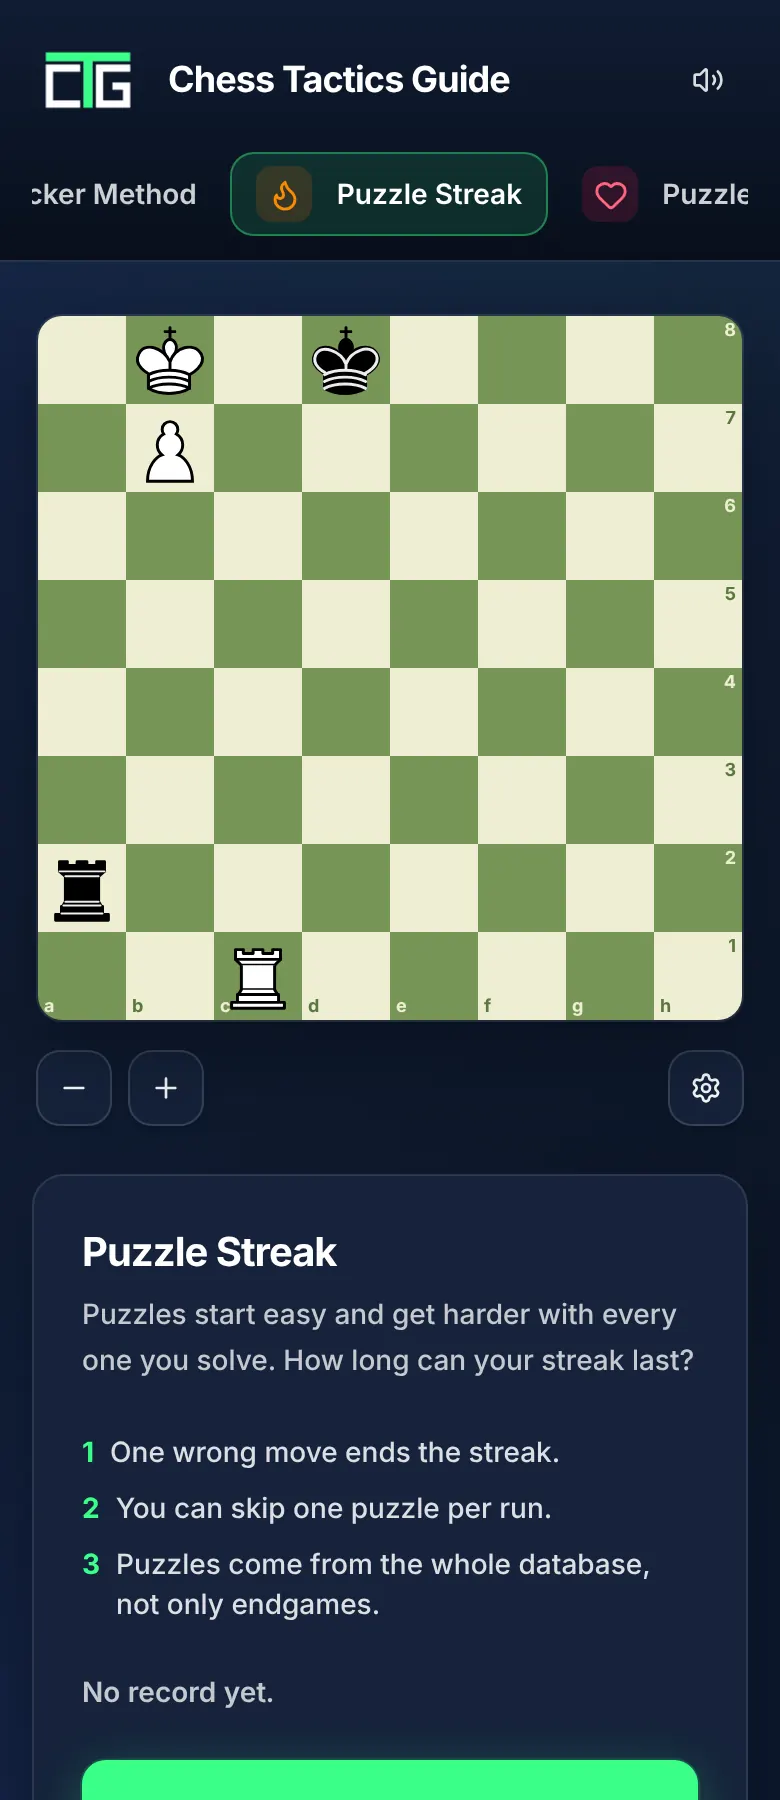
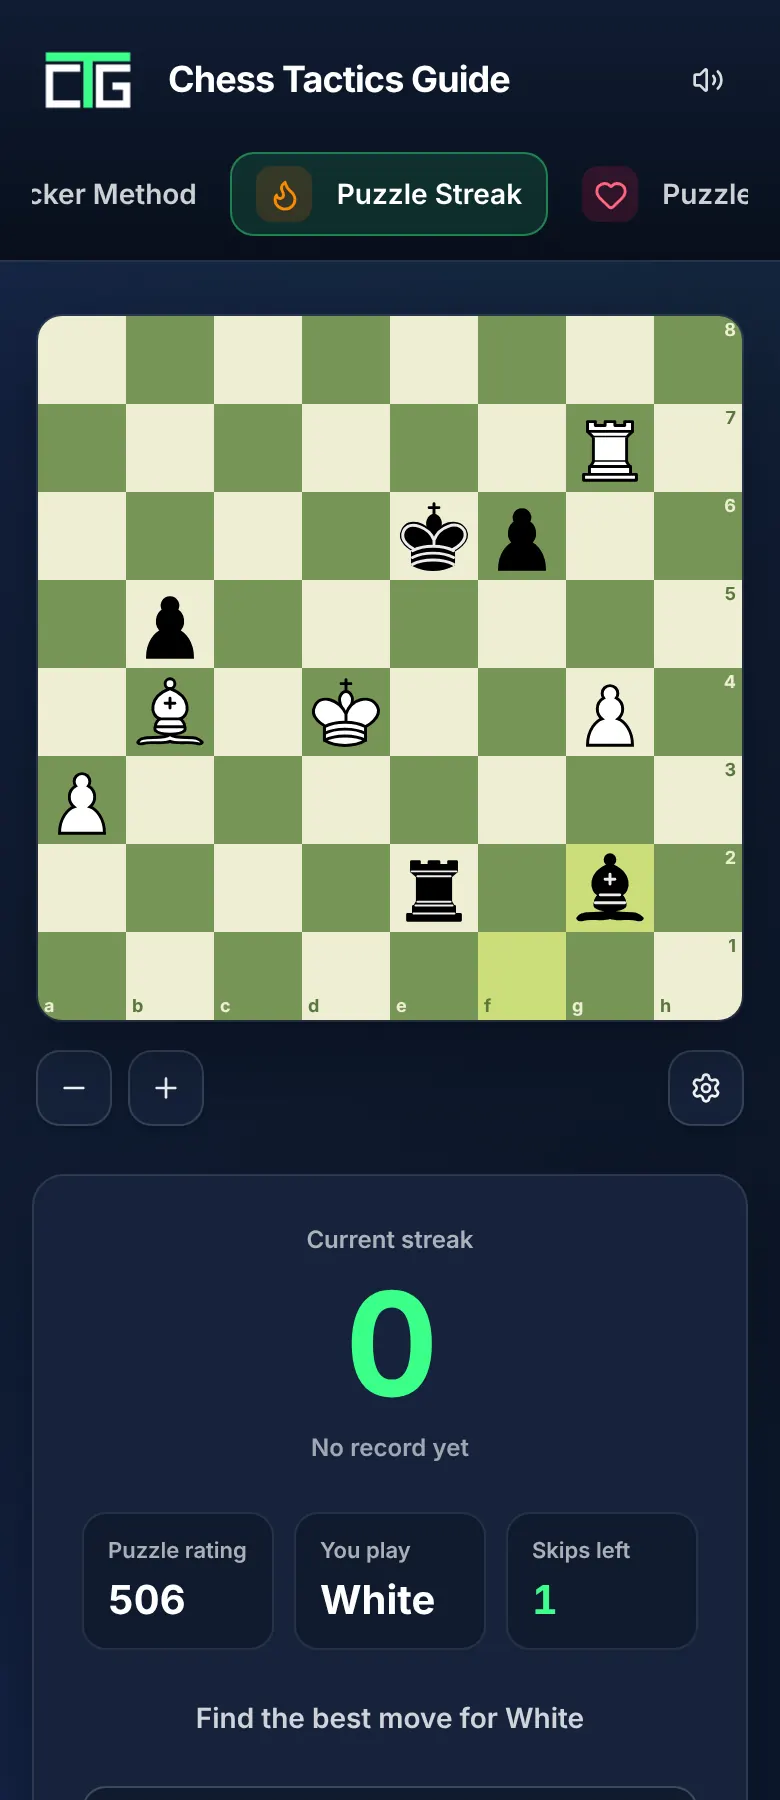
Home: different phone screens, texts on Woodpecker, Blindfold and the free books
Claude-Session: https://claude.ai/code/session_01YC5JRCiqqynmWYQfTxD754

diff --git a/src/components/WelcomeIntro.tsx b/src/components/WelcomeIntro.tsx
@@ -1,15 +1,108 @@
 // What Home shows instead of empty statistics: to a visitor who has not trained yet (a first visit, or after signing
 // out, when this browser holds no results) it says what the site is, with two phone screenshots, and shows the prices.
-import { ArrowRight, LogIn } from 'lucide-react';
+import type { ReactNode } from 'react';
+import { ArrowRight, BookOpen, Check, EyeOff, LogIn, Repeat } from 'lucide-react';
 import { LOGIN_BUTTON_CLASS, PRIMARY_BUTTON_CLASS, SECONDARY_BUTTON_CLASS } from './panelUi';
 import PricingPlans from './PricingPlans';
 
 const CARD = 'bg-[#16233b] border border-white/10 rounded-2xl shadow-[0_16px_44px_rgba(4,9,20,0.45)]';
 
 const SHOTS = {
-  streak: { src: '/welcome/phone-streak.webp', alt: 'The Puzzle Streak page on a phone: the board, the three rules and the Start button' },
-  woodpecker: { src: '/welcome/phone-woodpecker.webp', alt: 'The Woodpecker setup on a phone: the board, number of puzzles, cycles, puzzle type and difficulty' },
+  streak: { src: '/welcome/phone-streak.webp', alt: 'Puzzle Streak on a phone: a puzzle on the board and the current streak under it' },
+  woodpecker: { src: '/welcome/phone-woodpecker.webp', alt: 'The Woodpecker Method on a phone: a puzzle on the board, with the cycle, the accuracy and the timers under it' },
 };
+
+interface Guide {
+  id: string;
+  title: string;
+  icon: typeof Repeat;
+  tint: string;
+  text: ReactNode;
+  points: string[];
+  links: Array<{ href: string; label: string }>;
+}
+
+const GUIDES: Guide[] = [
+  {
+    id: 'woodpecker',
+    title: 'The Woodpecker Method',
+    icon: Repeat,
+    tint: 'bg-amber-300/15 text-amber-300',
+    text: (
+      <>
+        <p>
+          A training idea from the grandmasters Hans Tikkanen and Axel Smith (their book came out in 2018). You take one fixed set
+          of puzzles and solve the very same set again and again. Each round, called a cycle, you try to be faster than the last
+          one without making more mistakes.
+        </p>
+        <p>
+          Seeing the same positions over and over turns the patterns into habit, so in your own games you spot a fork, a pin or
+          a mating net at a glance instead of calculating it from the start.
+        </p>
+      </>
+    ),
+    points: [
+      'You choose how many puzzles and how many cycles',
+      'Puzzles of every kind, or endgames only, from easy to expert',
+      'Your time and accuracy are tracked for every cycle, then you review what you missed',
+    ],
+    links: [
+      { href: '/woodpecker', label: 'Start a Woodpecker set' },
+      { href: '/about', label: 'Read more' },
+    ],
+  },
+  {
+    id: 'blindfold',
+    title: 'Blindfold training',
+    icon: EyeOff,
+    tint: 'bg-pink-400/15 text-pink-300',
+    text: (
+      <>
+        <p>
+          Memorize the position, then the pieces vanish and you find the checkmate from memory, typing the move yourself. Seeing
+          the board in your head is the skill behind calculating long lines, and like any skill it can be trained.
+        </p>
+        <p>
+          Start with few pieces and a mate in one, then add pieces, shorten the time you may look, and go for mate in two or
+          three. A second part, Drills, trains the board in your head with quick questions against the clock.
+        </p>
+      </>
+    ),
+    points: [
+      'Mate in 1, 2 or 3, with 5 to 20 seconds to memorize the position',
+      'Drills: square colours, checks, attacks, diagonals, knight moves, distances, counting and more',
+      'Rebuild a whole position on the empty board from memory',
+    ],
+    links: [{ href: '/blindfold', label: 'Try blindfold' }],
+  },
+  {
+    id: 'books',
+    title: 'Free chess books',
+    icon: BookOpen,
+    tint: 'bg-fuchsia-300/15 text-fuchsia-300',
+    text: (
+      <>
+        <p>
+          Seven chess books as PDF files, with diagrams, plans, traps and exercises. They are free to download with Premium, with
+          nothing more to buy, and you keep the files.
+        </p>
+        <p>
+          Read about an idea in a book, then train it here: the endgame book goes with Woodpecker and Endgame Theory, the tactics
+          workbook with Puzzle Streak.
+        </p>
+      </>
+    ),
+    points: [
+      'The Queen’s Gambit: A Practical Guide and a Caro-Kann repertoire',
+      '100 Checkmate Patterns and 100 Essential Endgames',
+      'The Ultimate Chess Tactics Workbook, Openings Made Simple and How to Think Like a Chess Master',
+    ],
+    links: [
+      { href: '/ebooks', label: 'See the books' },
+      { href: '/pricing', label: 'See Premium' },
+    ],
+  },
+];
 
 /** A phone around a screenshot of the site. */
 function Phone({ shot, className = '' }: { shot: { src: string; alt: string }; className?: string }) {
@@ -66,6 +159,40 @@ export default function WelcomeIntro({ signedIn, premium }: { signedIn: boolean;
         <div className="flex justify-center items-start gap-4 sm:gap-5">
           <Phone shot={SHOTS.streak} className="w-[44%] max-w-[250px] mt-12" />
           <Phone shot={SHOTS.woodpecker} className="w-[44%] max-w-[250px]" />
+        </div>
+      </section>
+
+      <section className="flex flex-col gap-4" aria-label="How the training works" data-testid="welcome-guides">
+        <h3 className="text-2xl font-bold text-white tracking-tight">How the training works</h3>
+        <div className="grid gap-4 lg:grid-cols-3">
+          {GUIDES.map((guide) => {
+            const Icon = guide.icon;
+            return (
+              <article key={guide.id} id={guide.id} className={`${CARD} p-5 sm:p-6 flex flex-col gap-3`}>
+                <h4 className="flex items-center gap-3 text-xl font-bold text-white tracking-tight">
+                  <span className={`w-10 h-10 rounded-xl flex items-center justify-center shrink-0 ${guide.tint}`}>
+                    <Icon className="w-5 h-5" aria-hidden={true} />
+                  </span>
+                  {guide.title}
+                </h4>
+                <div className="flex flex-col gap-2 text-[15px] font-medium text-white/80 leading-relaxed">{guide.text}</div>
+                <ul className="flex flex-col gap-1.5">
+                  {guide.points.map((point) => (
+                    <li key={point} className="flex items-start gap-2 text-sm font-medium text-white/75 leading-snug">
+                      <Check className="w-4 h-4 text-[#39ff88] shrink-0 mt-px" aria-hidden={true} /> {point}
+                    </li>
+                  ))}
+                </ul>
+                <div className="mt-auto pt-2 flex flex-wrap gap-x-5 gap-y-1">
+                  {guide.links.map((link) => (
+                    <a key={link.href} href={link.href} className="inline-flex items-center gap-1.5 text-sm font-bold text-[#39ff88] no-underline hover:underline underline-offset-2">
+                      {link.label} <ArrowRight className="w-4 h-4" aria-hidden={true} />
+                    </a>
+                  ))}
+                </div>
+              </article>
+            );
+          })}
         </div>
       </section>
 

diff --git a/src/components/WelcomeIntro.test.ts b/src/components/WelcomeIntro.test.ts
@@ -49,3 +49,13 @@ test('the prices come last, and not for someone who has Premium', () => {
   assert.match(html, /\$4\.99/);
   assert.doesNotMatch(renderToStaticMarkup(createElement(WelcomeIntro, { signedIn: true, premium: true })), /welcome-premium/);
 });
+
+test('between the introduction and the prices come the Woodpecker, Blindfold and free books texts', () => {
+  const html = renderToStaticMarkup(createElement(WelcomeIntro, { signedIn: false, premium: false }));
+  const at = (needle: string) => html.indexOf(needle);
+  assert.ok(at('data-testid="welcome-start"') < at('data-testid="welcome-guides"'));
+  assert.ok(at('data-testid="welcome-guides"') < at('data-testid="welcome-premium"'));
+  for (const text of ['The Woodpecker Method', 'Blindfold training', 'Free chess books']) assert.match(html, new RegExp(text));
+  // Someone with Premium has no prices to see, but still reads about the training.
+  assert.match(renderToStaticMarkup(createElement(WelcomeIntro, { signedIn: true, premium: true })), /welcome-guides/);
+});
